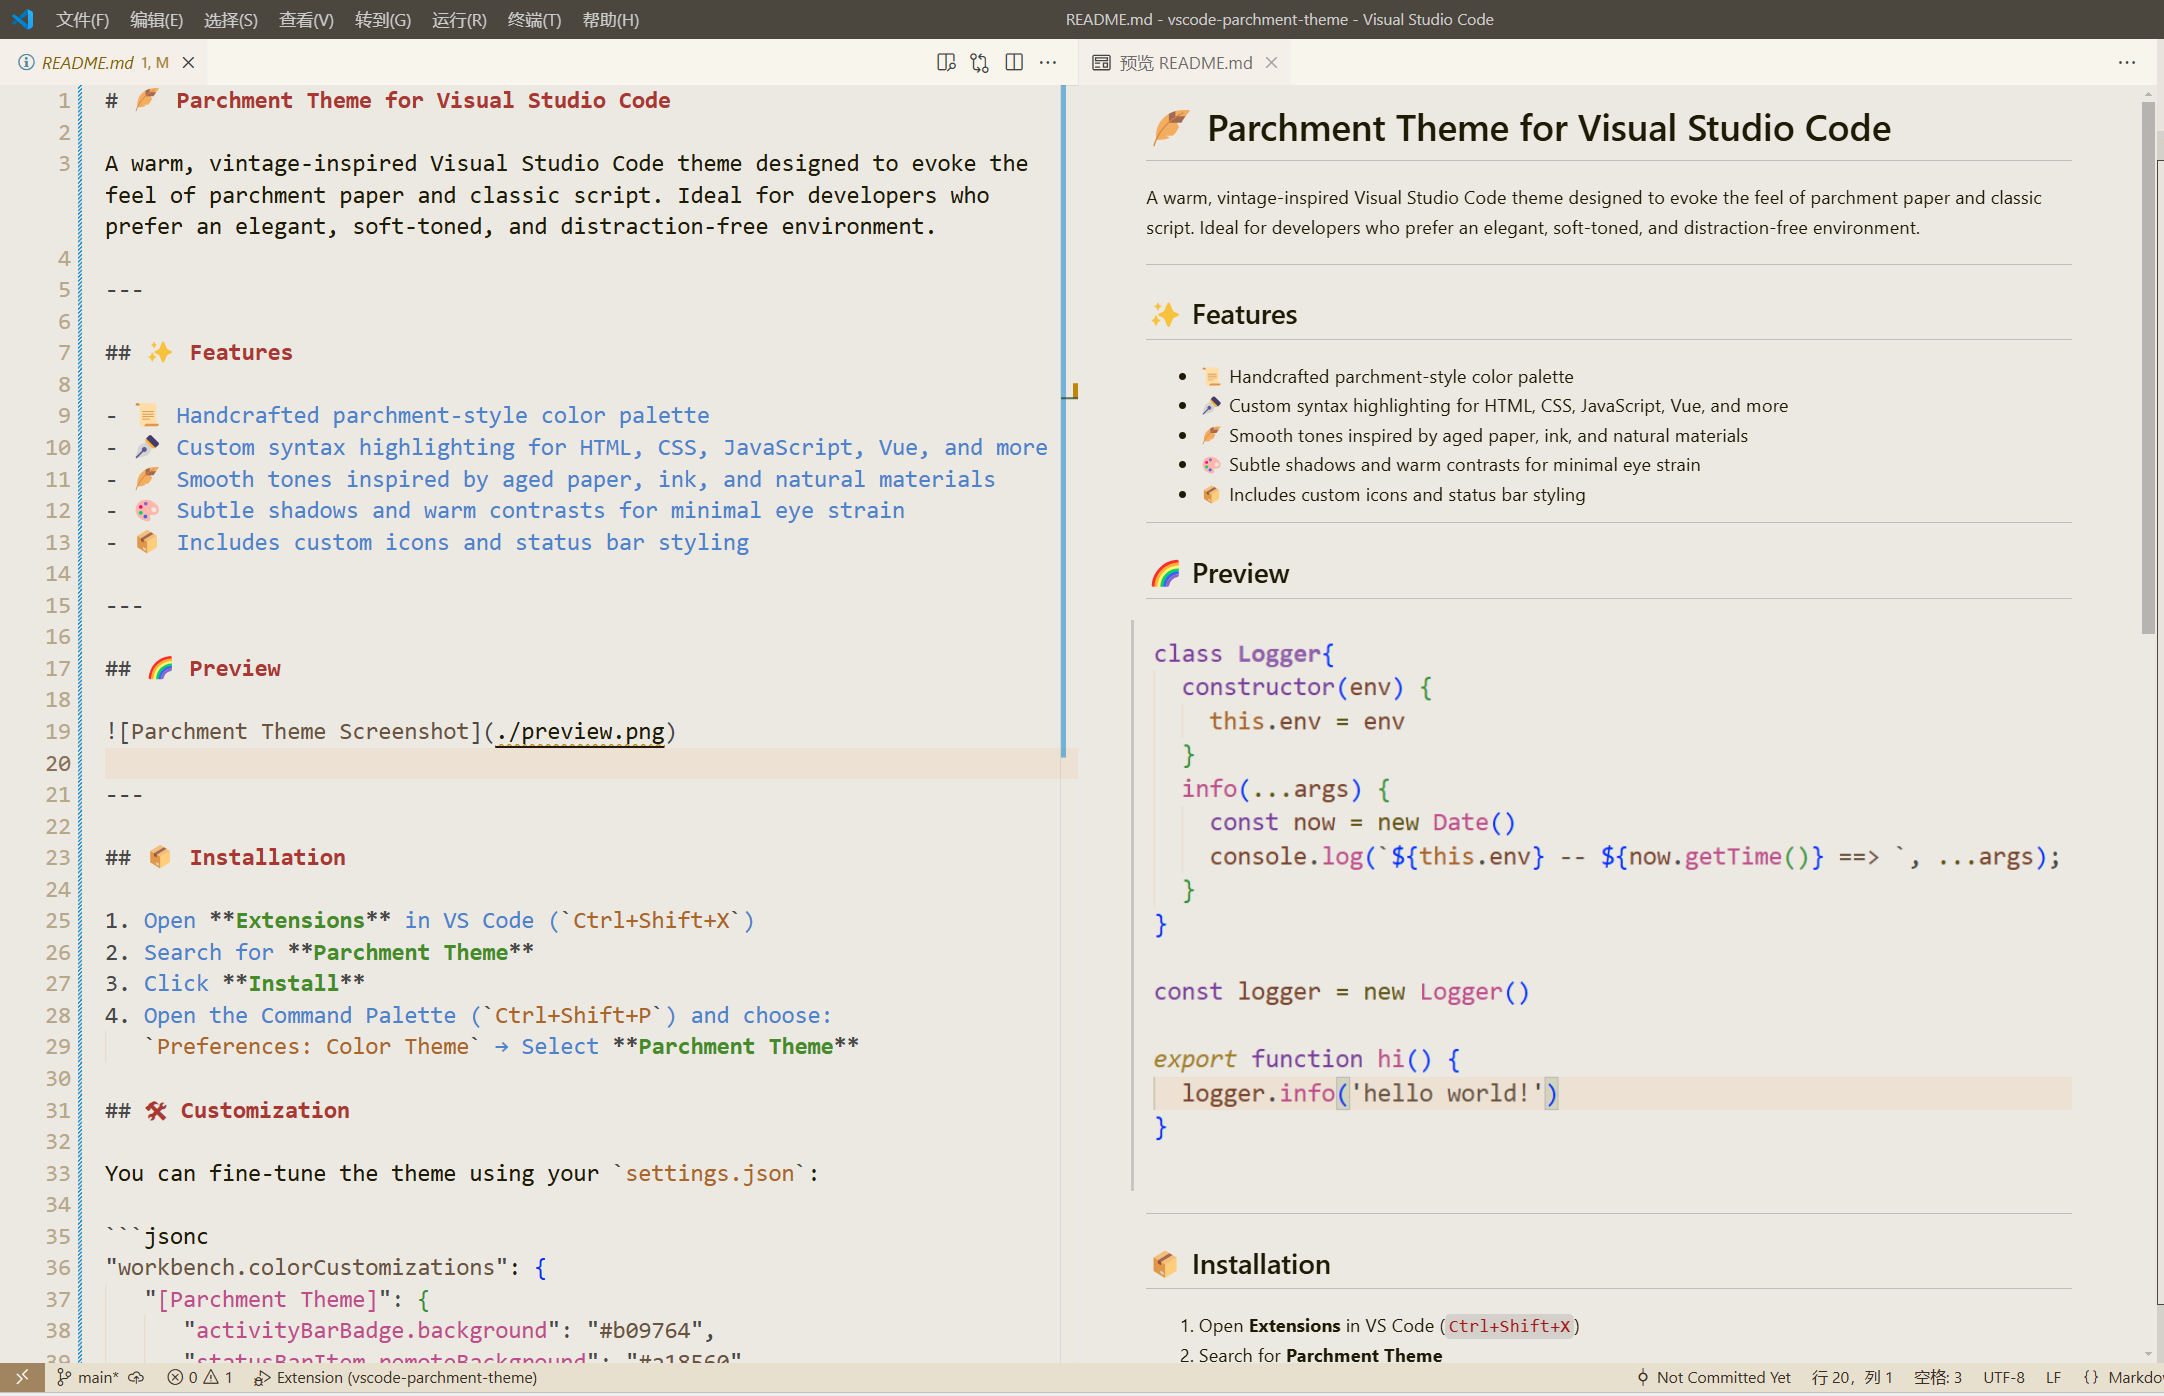
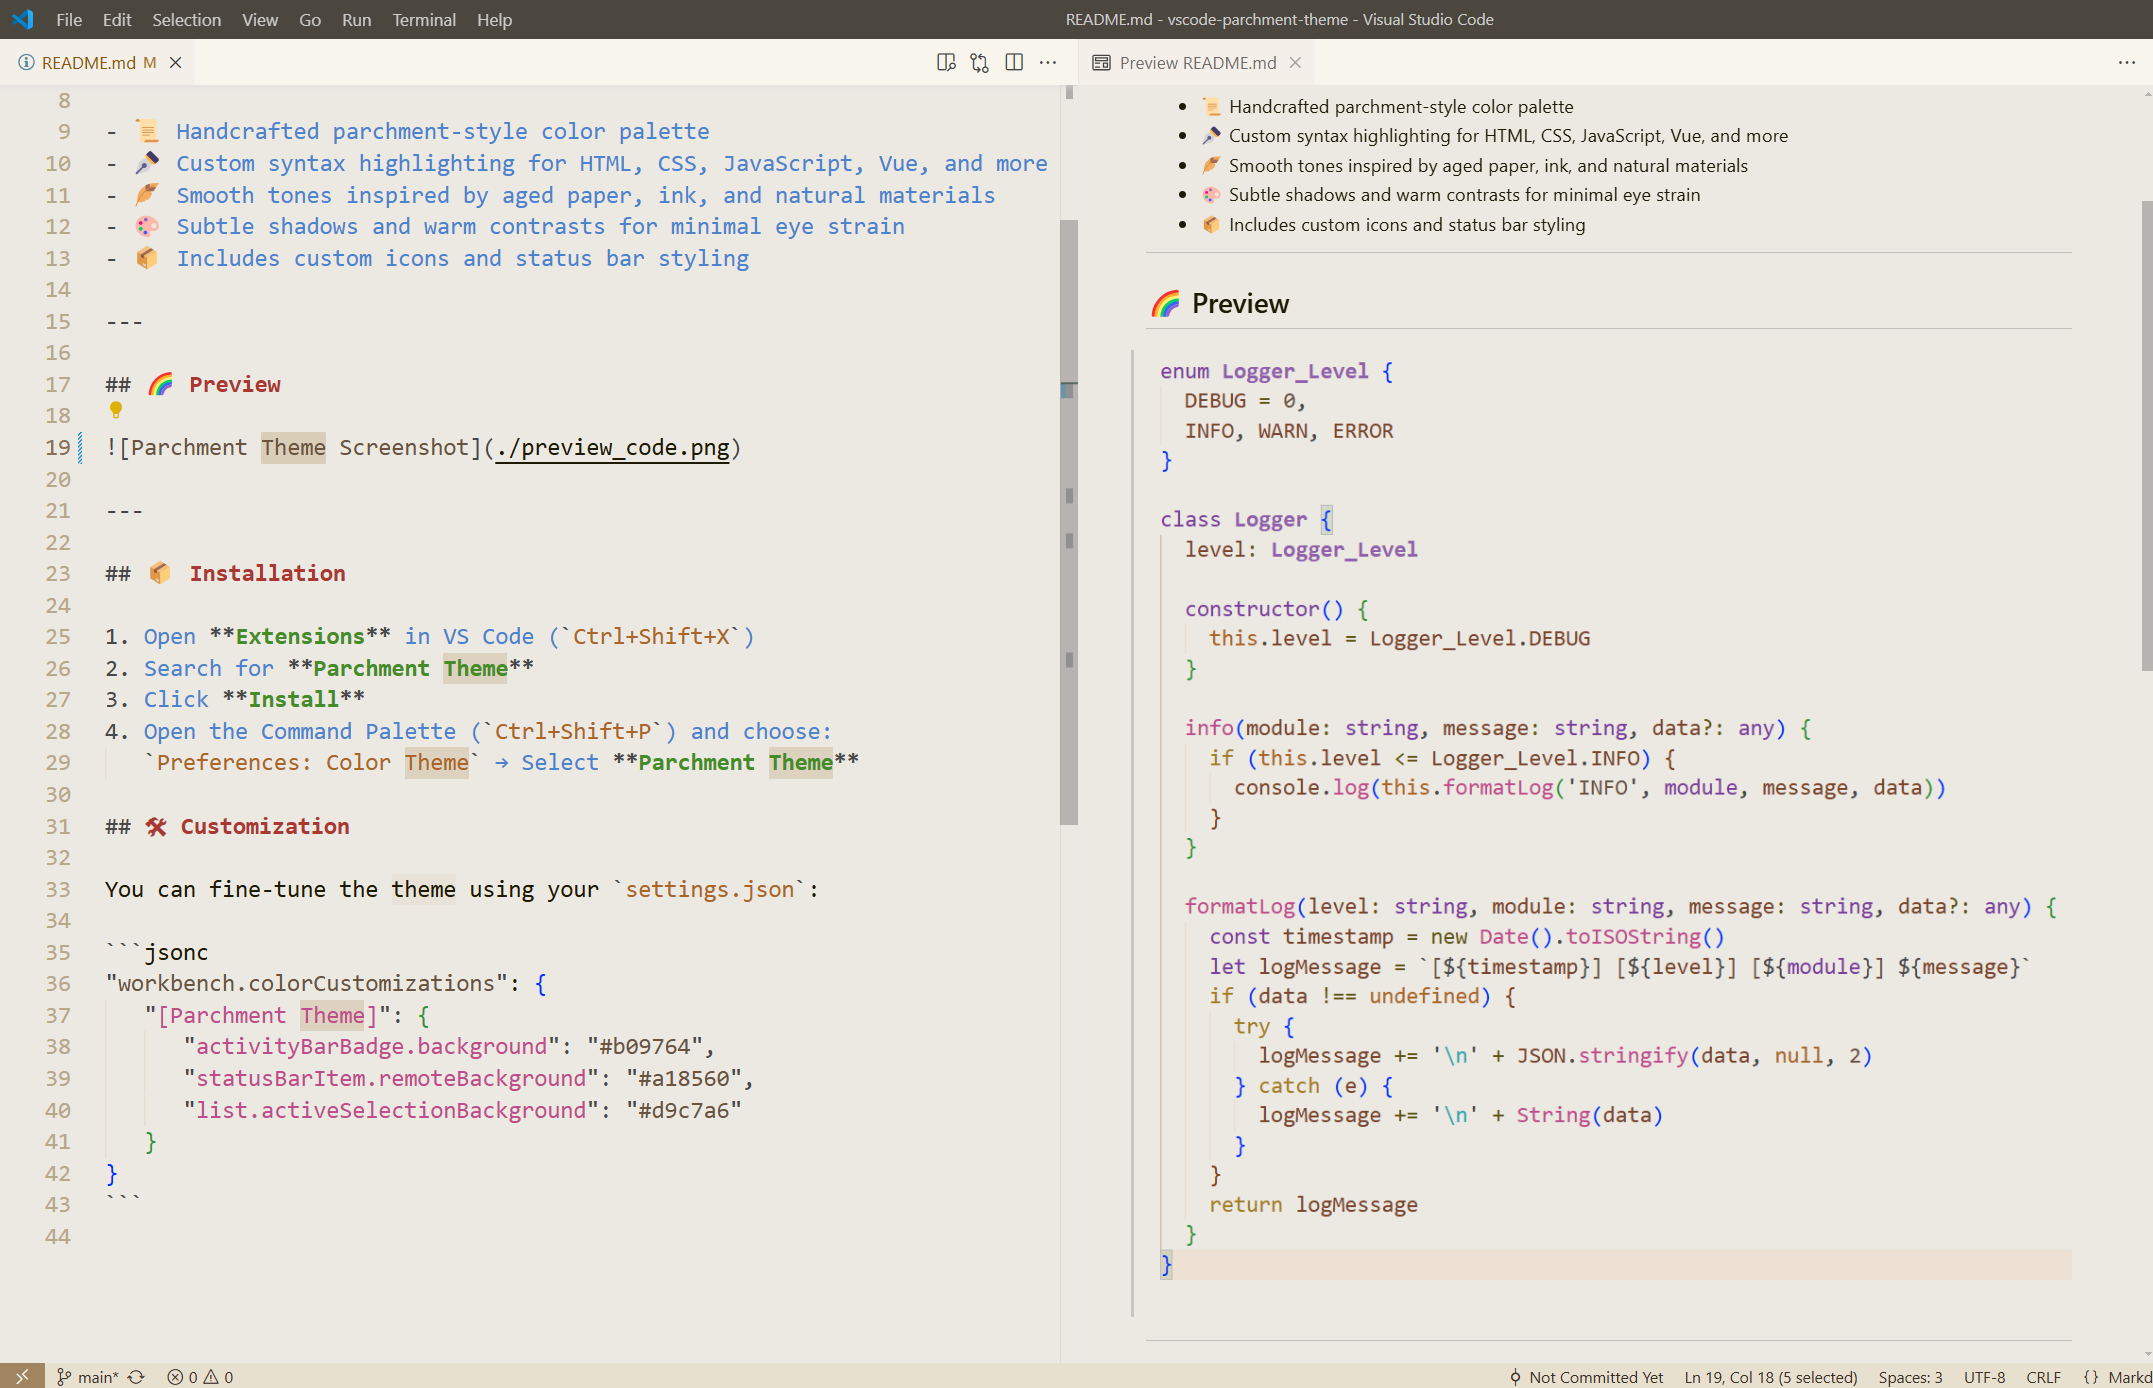
change: 微调样式

diff --git a/CHANGELOG.md b/CHANGELOG.md
@@ -7,3 +7,11 @@ Check [Keep a Changelog](http://keepachangelog.com/) for recommendations on how 
 ## [Unreleased]
 
 - Initial release
+
+## [0.0.4] - 2025-06-26
+
+### Changed
+
+- Slightly adjusted the background color of the title bar when active
+
+- Swapped the background colors of active and inactive editor tabs for better visual clarity

diff --git a/README.md b/README.md
@@ -16,7 +16,7 @@ A warm, vintage-inspired Visual Studio Code theme designed to evoke the feel of 
 
 ## 🌈 Preview
 
-![Parchment Theme Screenshot](./preview.png)
+![Parchment Theme Screenshot](./preview_code.png)
 
 ---
 
